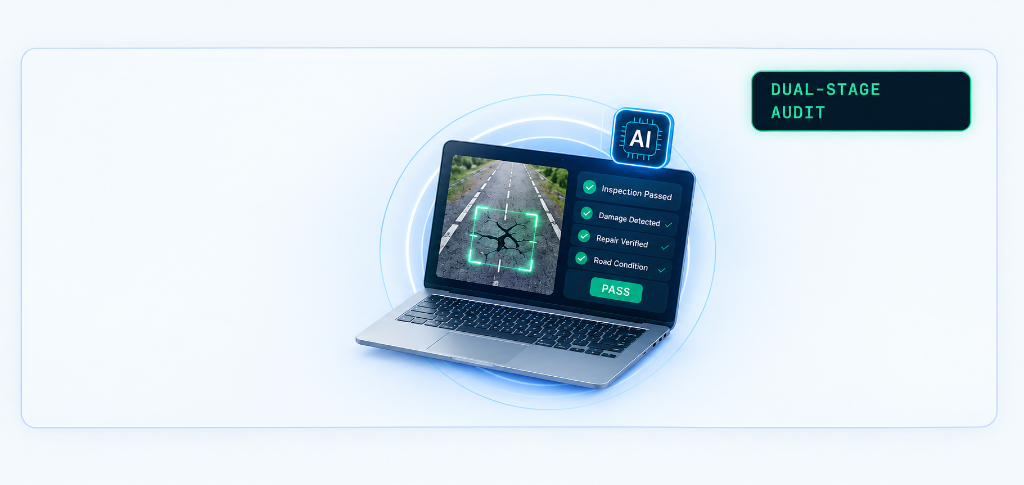
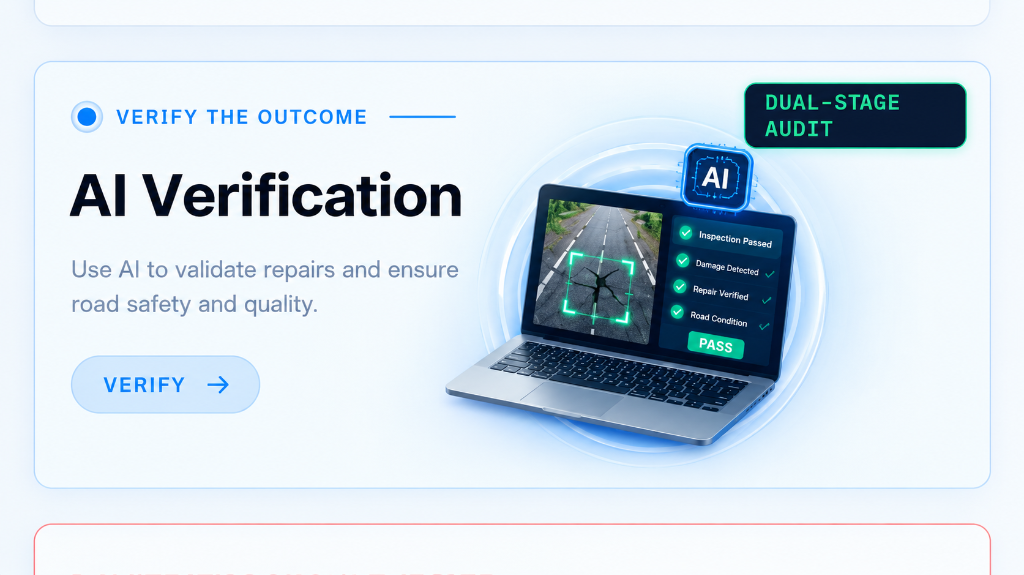
feat(ui): replace AI verification right-side image with exact attached visual reference

diff --git a/dist/index.html b/dist/index.html
@@ -732,8 +732,8 @@
                   Computer-vision asphalt compaction verification and closure authorization.
                 </p>
 
-                <div class="feature-visual-display" style="position:relative; width:100%; height:235px; border-radius:12px; overflow:hidden; background:linear-gradient(135deg, #EFF6FF 0%, #E0E7FF 50%, #F8FAFC 100%); border:1px solid rgba(37,99,235,0.25); display:flex; justify-content:center; align-items:center; padding:2px; box-shadow:inset 0 1px 3px rgba(0,0,0,0.02);">
-                  <img src="/assets/ai_verification_visual@2x.png" alt="AI Repair Verification & Inspection" style="max-height:100%; max-width:100%; width:100%; height:auto; object-fit:contain; display:block; margin:0 auto; border-radius:8px; filter:drop-shadow(0 4px 12px rgba(37,99,235,0.12)); transition:transform 0.3s cubic-bezier(0.16, 1, 0.3, 1);" class="interactive-visual-img" />
+                <div class="feature-visual-display" style="position:relative; width:100%; height:235px; border-radius:12px; overflow:hidden; background:linear-gradient(135deg, #EFF6FF 0%, #E0E7FF 50%, #F8FAFC 100%); border:1px solid rgba(37,99,235,0.25); display:flex; justify-content:center; align-items:center; padding:4px; box-shadow:inset 0 1px 3px rgba(0,0,0,0.02);">
+                  <img src="/assets/ai_verification_visual@2x.png" alt="AI Repair Verification & Inspection" style="width:100%; height:100%; object-fit:contain; display:block; margin:0 auto; border-radius:8px; filter:drop-shadow(0 4px 12px rgba(37,99,235,0.12)); transition:transform 0.3s cubic-bezier(0.16, 1, 0.3, 1);" class="interactive-visual-img" />
                 </div>
               </div>
 

diff --git a/frontend/index.html b/frontend/index.html
@@ -732,8 +732,8 @@
                   Computer-vision asphalt compaction verification and closure authorization.
                 </p>
 
-                <div class="feature-visual-display" style="position:relative; width:100%; height:235px; border-radius:12px; overflow:hidden; background:linear-gradient(135deg, #EFF6FF 0%, #E0E7FF 50%, #F8FAFC 100%); border:1px solid rgba(37,99,235,0.25); display:flex; justify-content:center; align-items:center; padding:2px; box-shadow:inset 0 1px 3px rgba(0,0,0,0.02);">
-                  <img src="/assets/ai_verification_visual@2x.png" alt="AI Repair Verification & Inspection" style="max-height:100%; max-width:100%; width:100%; height:auto; object-fit:contain; display:block; margin:0 auto; border-radius:8px; filter:drop-shadow(0 4px 12px rgba(37,99,235,0.12)); transition:transform 0.3s cubic-bezier(0.16, 1, 0.3, 1);" class="interactive-visual-img" />
+                <div class="feature-visual-display" style="position:relative; width:100%; height:235px; border-radius:12px; overflow:hidden; background:linear-gradient(135deg, #EFF6FF 0%, #E0E7FF 50%, #F8FAFC 100%); border:1px solid rgba(37,99,235,0.25); display:flex; justify-content:center; align-items:center; padding:4px; box-shadow:inset 0 1px 3px rgba(0,0,0,0.02);">
+                  <img src="/assets/ai_verification_visual@2x.png" alt="AI Repair Verification & Inspection" style="width:100%; height:100%; object-fit:contain; display:block; margin:0 auto; border-radius:8px; filter:drop-shadow(0 4px 12px rgba(37,99,235,0.12)); transition:transform 0.3s cubic-bezier(0.16, 1, 0.3, 1);" class="interactive-visual-img" />
                 </div>
               </div>
 

diff --git a/index.html b/index.html
@@ -732,8 +732,8 @@
                   Computer-vision asphalt compaction verification and closure authorization.
                 </p>
 
-                <div class="feature-visual-display" style="position:relative; width:100%; height:235px; border-radius:12px; overflow:hidden; background:linear-gradient(135deg, #EFF6FF 0%, #E0E7FF 50%, #F8FAFC 100%); border:1px solid rgba(37,99,235,0.25); display:flex; justify-content:center; align-items:center; padding:2px; box-shadow:inset 0 1px 3px rgba(0,0,0,0.02);">
-                  <img src="/assets/ai_verification_visual@2x.png" alt="AI Repair Verification & Inspection" style="max-height:100%; max-width:100%; width:100%; height:auto; object-fit:contain; display:block; margin:0 auto; border-radius:8px; filter:drop-shadow(0 4px 12px rgba(37,99,235,0.12)); transition:transform 0.3s cubic-bezier(0.16, 1, 0.3, 1);" class="interactive-visual-img" />
+                <div class="feature-visual-display" style="position:relative; width:100%; height:235px; border-radius:12px; overflow:hidden; background:linear-gradient(135deg, #EFF6FF 0%, #E0E7FF 50%, #F8FAFC 100%); border:1px solid rgba(37,99,235,0.25); display:flex; justify-content:center; align-items:center; padding:4px; box-shadow:inset 0 1px 3px rgba(0,0,0,0.02);">
+                  <img src="/assets/ai_verification_visual@2x.png" alt="AI Repair Verification & Inspection" style="width:100%; height:100%; object-fit:contain; display:block; margin:0 auto; border-radius:8px; filter:drop-shadow(0 4px 12px rgba(37,99,235,0.12)); transition:transform 0.3s cubic-bezier(0.16, 1, 0.3, 1);" class="interactive-visual-img" />
                 </div>
               </div>
 

diff --git a/public/index.html b/public/index.html
@@ -732,8 +732,8 @@
                   Computer-vision asphalt compaction verification and closure authorization.
                 </p>
 
-                <div class="feature-visual-display" style="position:relative; width:100%; height:235px; border-radius:12px; overflow:hidden; background:linear-gradient(135deg, #EFF6FF 0%, #E0E7FF 50%, #F8FAFC 100%); border:1px solid rgba(37,99,235,0.25); display:flex; justify-content:center; align-items:center; padding:2px; box-shadow:inset 0 1px 3px rgba(0,0,0,0.02);">
-                  <img src="/assets/ai_verification_visual@2x.png" alt="AI Repair Verification & Inspection" style="max-height:100%; max-width:100%; width:100%; height:auto; object-fit:contain; display:block; margin:0 auto; border-radius:8px; filter:drop-shadow(0 4px 12px rgba(37,99,235,0.12)); transition:transform 0.3s cubic-bezier(0.16, 1, 0.3, 1);" class="interactive-visual-img" />
+                <div class="feature-visual-display" style="position:relative; width:100%; height:235px; border-radius:12px; overflow:hidden; background:linear-gradient(135deg, #EFF6FF 0%, #E0E7FF 50%, #F8FAFC 100%); border:1px solid rgba(37,99,235,0.25); display:flex; justify-content:center; align-items:center; padding:4px; box-shadow:inset 0 1px 3px rgba(0,0,0,0.02);">
+                  <img src="/assets/ai_verification_visual@2x.png" alt="AI Repair Verification & Inspection" style="width:100%; height:100%; object-fit:contain; display:block; margin:0 auto; border-radius:8px; filter:drop-shadow(0 4px 12px rgba(37,99,235,0.12)); transition:transform 0.3s cubic-bezier(0.16, 1, 0.3, 1);" class="interactive-visual-img" />
                 </div>
               </div>
 
